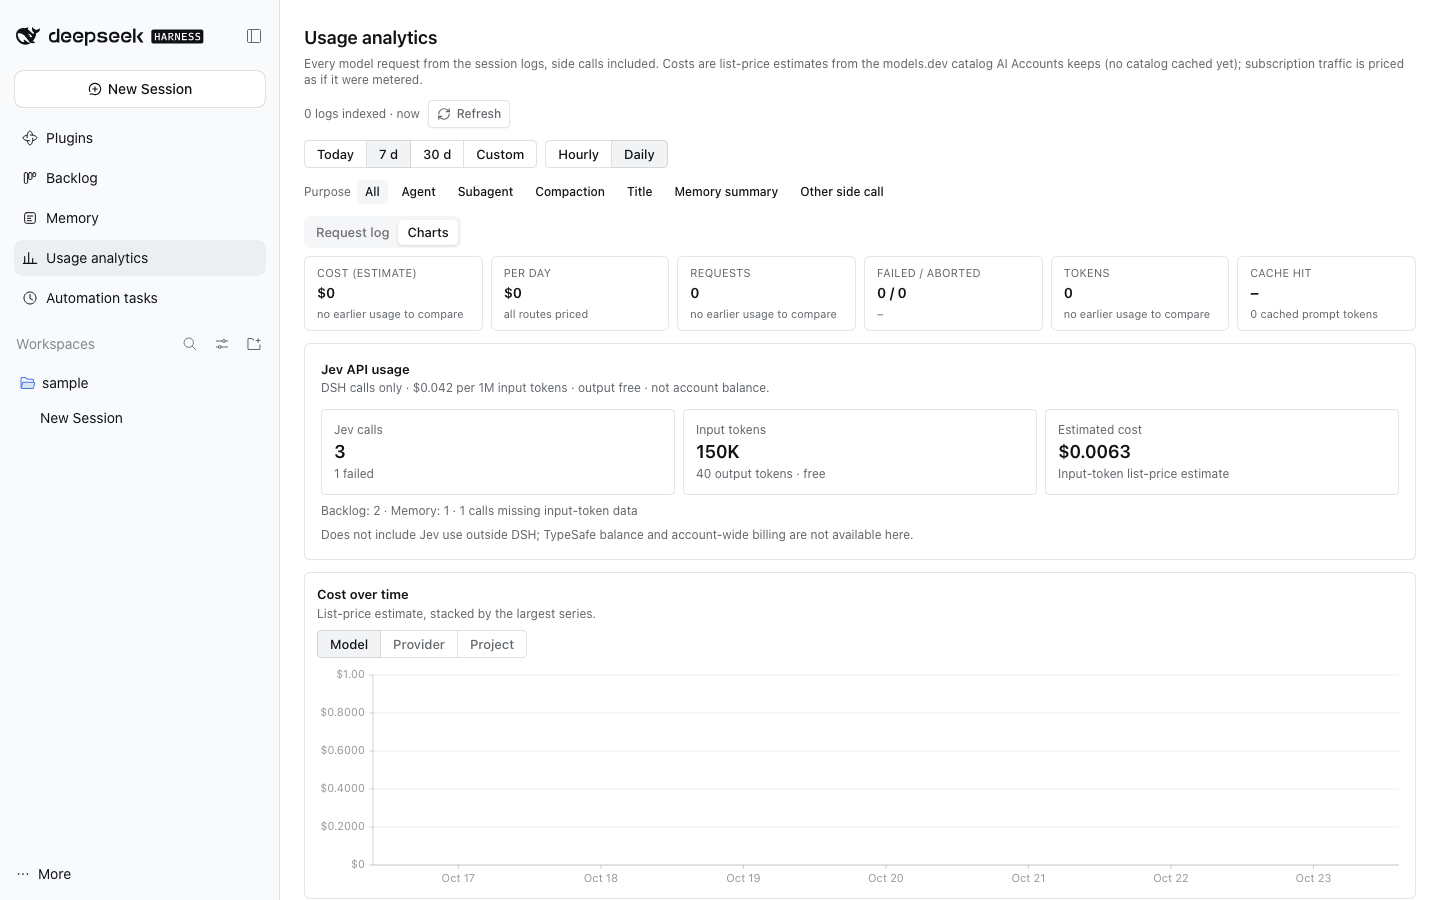
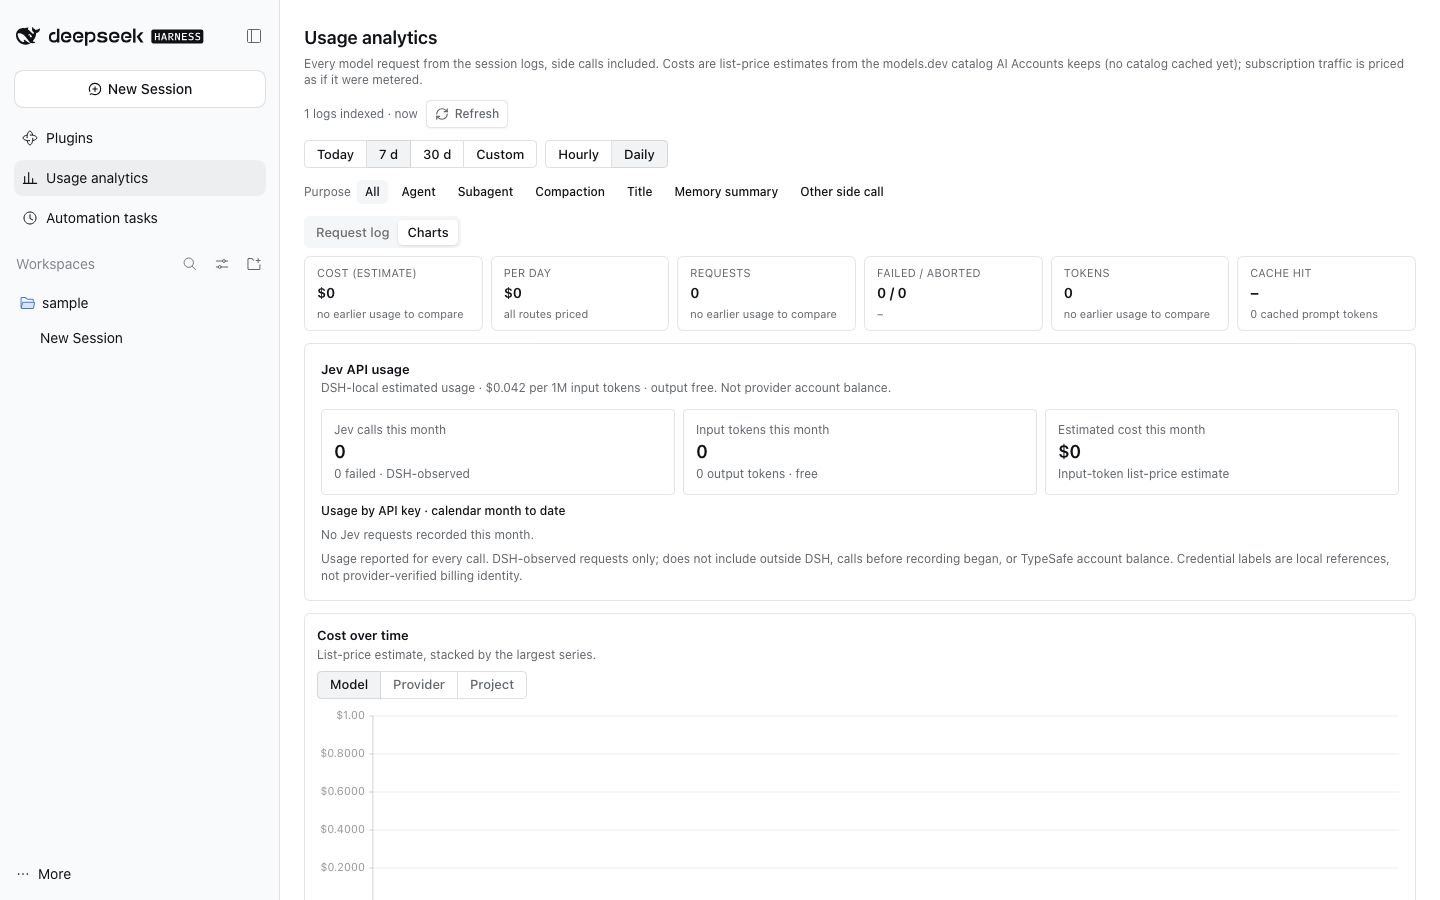
feat(usage): show Jev key usage meters
Make the Jev card mirror the useful TypeSafe console dimensions available from observed calls: calendar-month input and output tokens, request counts and an input-token list-price estimate, grouped by configured credential label. Add per-key bars normalized against the most-used key for this month; they communicate relative volume, not quota remaining, because Jev exposes no documented account limit or balance endpoint. Keep labels local and note that external API traffic is not observed. Refresh screenshot, E2E fixture, browser journey and usage documentation.

diff --git a/plugins/@dshfiles/usage/src/jev-usage-card.tsx b/plugins/@dshfiles/usage/src/jev-usage-card.tsx
@@ -1,3 +1,4 @@
+import { Progress } from '@dshfiles/plugin-ui/components/ui/progress'
 import { errorMessage } from '@dshfiles/plugin-ui/query'
 import type { JevUsageView } from './api.js'
 import { UsageFormattingModel } from './format.js'
@@ -31,6 +32,7 @@ const Tile = (props: { readonly label: string; readonly value: string; readonly 
 
 export const JevUsageCard = (props: { readonly usage: JevUsageView | undefined; readonly error: unknown; readonly failed: boolean }): JSX.Element => {
   const credentialRows = props.usage?.byCredential ?? []
+  const maximumInputTokens = Math.max(0, ...credentialRows.map(row => row.inputTokens))
   return (
     <Panel title="Jev API usage" description="DSH-local estimated usage · $0.042 per 1M input tokens · output free. Not provider account balance.">
       {props.failed ? (
@@ -40,25 +42,44 @@ export const JevUsageCard = (props: { readonly usage: JevUsageView | undefined; 
       ) : (
         <div className="dshx:flex dshx:flex-col dshx:gap-2">
           <div className="dshx:grid dshx:grid-cols-3 dshx:gap-2">
-            <Tile label="Jev calls" value={props.usage.calls.toLocaleString()} detail={`${props.usage.failed.toLocaleString()} failed`} />
             <Tile
-              label="Input tokens"
+              label="Jev calls this month"
+              value={props.usage.calls.toLocaleString()}
+              detail={`${props.usage.failed.toLocaleString()} failed · DSH-observed`}
+            />
+            <Tile
+              label="Input tokens this month"
               value={UsageFormattingModel.formatCount(props.usage.inputTokens)}
               detail={`${UsageFormattingModel.formatCount(props.usage.outputTokens)} output tokens · free`}
             />
-            <Tile label="Estimated cost" value={UsageFormattingModel.formatCost(props.usage.estimatedCostUsd)} detail="Input-token list-price estimate" />
+            <Tile
+              label="Estimated cost this month"
+              value={UsageFormattingModel.formatCost(props.usage.estimatedCostUsd)}
+              detail="Input-token list-price estimate"
+            />
           </div>
-          <div className="dshx:flex dshx:flex-col dshx:gap-1">
-            <p className="dshx:text-xs dshx:font-medium dshx:text-foreground">Usage by configured credential</p>
-            {credentialRows.length === 0 ? <p className="dshx:text-xs dshx:text-muted-foreground">No Jev requests recorded in this period.</p> : null}
+          <div className="dshx:flex dshx:flex-col dshx:gap-2">
+            <p className="dshx:text-xs dshx:font-medium dshx:text-foreground">Usage by API key · calendar month to date</p>
+            {credentialRows.length === 0 ? <p className="dshx:text-xs dshx:text-muted-foreground">No Jev requests recorded this month.</p> : null}
             {credentialRows.map(row => (
-              <p className="dshx:flex dshx:justify-between dshx:gap-2 dshx:text-xs dshx:text-muted-foreground" key={row.credential}>
-                <span className="dshx:min-w-0 dshx:truncate dshx:font-mono! dshx:text-foreground">{row.credential}</span>
-                <span className="dshx:shrink-0">
-                  {row.calls.toLocaleString()} calls · {UsageFormattingModel.formatCount(row.inputTokens)} input ·{' '}
-                  {UsageFormattingModel.formatCost(row.estimatedCostUsd)} · Backlog {row.backlogCalls} / Memory {row.memoryCalls}
-                </span>
-              </p>
+              <div className="dshx:flex dshx:min-w-0 dshx:flex-col dshx:gap-1" key={row.credential}>
+                <div className="dshx:flex dshx:items-baseline dshx:justify-between dshx:gap-2 dshx:text-xs">
+                  <span className="dshx:min-w-0 dshx:truncate dshx:font-mono! dshx:text-foreground">{row.credential}</span>
+                  <strong className="dshx:shrink-0 dshx:font-semibold dshx:tabular-nums dshx:text-foreground">
+                    {UsageFormattingModel.formatCost(row.estimatedCostUsd)} · {row.calls.toLocaleString()} {row.calls === 1 ? 'request' : 'requests'}
+                  </strong>
+                </div>
+                <Progress
+                  aria-label={`${row.credential} share of input tokens this month`}
+                  className="dshx:h-1.5 dshx:bg-muted"
+                  value={maximumInputTokens === 0 ? 0 : (row.inputTokens / maximumInputTokens) * 100}
+                  aria-valuetext={`${UsageFormattingModel.formatCount(row.inputTokens)} input tokens; ${row.calls.toLocaleString()} requests; ${UsageFormattingModel.formatCost(row.estimatedCostUsd)} estimated cost this month; bars are relative to the most-used credential`}
+                />
+                <p className="dshx:text-[11px] dshx:text-muted-foreground">
+                  {UsageFormattingModel.formatCount(row.inputTokens)} input tokens · {UsageFormattingModel.formatCount(row.outputTokens)} output · Backlog{' '}
+                  {row.backlogCalls} / Memory {row.memoryCalls}
+                </p>
+              </div>
             ))}
           </div>
           <p className="dshx:text-xs dshx:text-muted-foreground">

diff --git a/tooling/dshx/e2e/support/plugin-journeys/usage.steps.ts b/tooling/dshx/e2e/support/plugin-journeys/usage.steps.ts
@@ -32,7 +32,7 @@ When('recorded session logs and a price catalog are seeded', async ({ page }: { 
     const insert = jevDatabase.prepare(
       'INSERT INTO jev_requests (request_id, source, started_at, duration_ms, outcome, input_tokens, output_tokens, credential) VALUES (?, ?, ?, ?, ?, ?, ?, ?)',
     )
-    const startedAt = Date.UTC(2026, 9, 22, 12)
+    const startedAt = Date.now() - 60_000
     insert.run('00000000-0000-4000-8000-000000000001', 'memory', startedAt, 320, 'success', 100_000, 30, 'secret:MEMORY_JEV')
     insert.run('00000000-0000-4000-8000-000000000002', 'backlog', startedAt + 1_000, 280, 'success', 50_000, 10, 'secret:BACKLOG_JEV')
     insert.run('00000000-0000-4000-8000-000000000003', 'backlog', startedAt + 2_000, 120, 'failure', null, null, 'secret:BACKLOG_JEV')
@@ -129,14 +129,17 @@ Then('the Jev usage card shows DSH-local token estimates', async ({ page }: { pa
     await expect(
       card.getByText('DSH-local estimated usage · $0.042 per 1M input tokens · output free. Not provider account balance.', { exact: true }),
     ).toBeVisible()
-    await expect(card.getByText('Jev calls', { exact: true })).toBeVisible()
+    await expect(card.getByText('Jev calls this month', { exact: true })).toBeVisible()
     await expect(card.getByText('3', { exact: true })).toBeVisible()
     await expect(card.getByText('150K', { exact: true })).toBeVisible()
     await expect(card.getByText('$0.0063', { exact: true })).toBeVisible()
     await expect(card.getByText('secret:BACKLOG_JEV')).toBeVisible()
     await expect(card.getByText('secret:MEMORY_JEV')).toBeVisible()
-    await expect(card.getByText('2 calls · 50K input · $0.0021 · Backlog 2 / Memory 0')).toBeVisible()
-    await expect(card.getByText('1 calls · 100K input · $0.0042 · Backlog 0 / Memory 1')).toBeVisible()
+    await expect(card.getByText('$0.0021 · 2 requests')).toBeVisible()
+    await expect(card.getByText('$0.0042 · 1 request')).toBeVisible()
+    await expect(card.getByText('Usage by API key · calendar month to date')).toBeVisible()
+    await expect(card.getByLabel('secret:BACKLOG_JEV share of input tokens this month')).toHaveAttribute('aria-valuetext', /50K input tokens/u)
+    await expect(card.getByLabel('secret:MEMORY_JEV share of input tokens this month')).toHaveAttribute('aria-valuetext', /100K input tokens/u)
     await expect(card.getByText(/DSH-observed requests only; does not include outside DSH/u)).toBeVisible()
   })
 })

diff --git a/plugins/@dshfiles/usage/src/jev-usage-card.test.tsx b/plugins/@dshfiles/usage/src/jev-usage-card.test.tsx
@@ -51,6 +51,13 @@ describe('JevUsageCard', () => {
     expect(html).toContain('Backlog 2 / Memory 0')
     expect(html).toContain('secret:MEMORY_JEV')
     expect(html).toContain('Backlog 0 / Memory 1')
+    expect(html).toContain('Jev calls this month')
+    expect(html).toContain('Estimated cost this month')
+    expect(html).toContain('Input tokens this month')
+    expect(html).toContain('Usage by API key · calendar month to date')
+    expect(html).toContain('$0.0021 · 2 requests')
+    expect(html).toContain('$0.0042 · 1 request')
+    expect(html).toContain('secret:BACKLOG_JEV share of input tokens this month')
     expect(html).toContain('1 calls missing input-token data')
     expect(html).toContain('Not provider account balance.')
     expect(html).toContain('Credential labels are local references, not provider-verified billing identity.')

diff --git a/plugins/@dshfiles/usage/src/charts.tsx b/plugins/@dshfiles/usage/src/charts.tsx
@@ -130,12 +130,17 @@ export const UsageCharts = (props: {
     refetchInterval: 60_000,
     retry: 1,
   })
-  const jevRange = { from: props.range.from, to: props.range.to }
+  const now = new Date()
+  const jevRange = {
+    from: new Date(now.getFullYear(), now.getMonth(), 1).getTime(),
+    to: new Date(now.getFullYear(), now.getMonth() + 1, 1).getTime(),
+  }
   const jevUsage = useQuery({
-    queryKey: ['dshfiles-usage', 'jev', jevRange],
+    queryKey: ['dshfiles-usage', 'jev', jevRange.from],
     queryFn: ({ signal }) => runHostRequest({ signal, request: hostSignal => api.jevUsage(jevRange, { signal: hostSignal }) }),
     placeholderData: keepPreviousData,
     refetchInterval: 60_000,
+    refetchIntervalInBackground: true,
     retry: 1,
   })
   const view = charts.data

diff --git a/plugins/@dshfiles/usage/README.md b/plugins/@dshfiles/usage/README.md
@@ -18,9 +18,11 @@ built from the session logs DSH already writes. Observation only.
   hourly or daily. Charts use TanStack Charts from `@dshfiles/plugin-ui`.
 - **Jev API usage**: DSH-origin calls from Backlog and Memory, grouped by the
   configured secret reference (or the `TYPESAFE_API_KEY` environment-variable
-  label), with provider-reported tokens and a TypeSafe list-price estimate.
-  Labels are local configuration references, not verified billing identity. The
-  card is not a TypeSafe account balance and excludes calls made outside DSH.
+  label), with provider-reported tokens, request counts and a TypeSafe
+  list-price estimate. Calendar month-to-date spend, request count and tokens
+  are shown per label, with bars comparing input-token volume to the most-used
+  label this month. These are DSH-local observations, not provider account billing, and
+  exclude calls outside DSH; labels are not verified billing identities.
 
 ## Data
 
